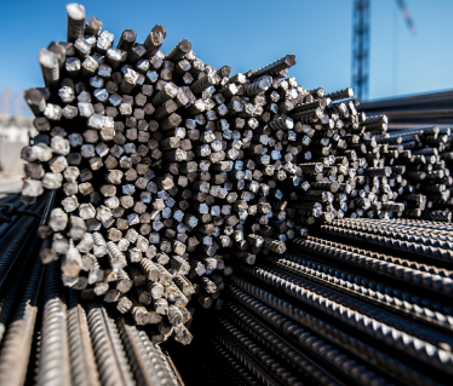
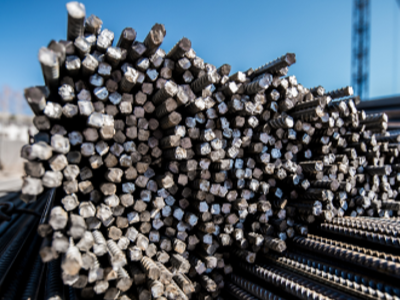
final commit

diff --git a/src/components/dashboard/userInterface.tsx b/src/components/dashboard/userInterface.tsx
@@ -37,16 +37,15 @@ export default function UserInterface() {
       <main className="p-4 space-y-4">
         <div className="grid grid-cols-1 md:grid-cols-3 gap-4">
           {/* Material Image Card */}
-          <Card className="bg-gray-900 border-0 overflow-hidden">
-            <CardContent className="p-0">
+          <Card className="text-card-foreground rounded-xl shadow-sm bg-zinc-900 border-0 p-0 overflow-hidden flex">
+            <div className="relative w-full h-[300px] flex-grow">
               <Image
                 src="/steel.png"
                 alt="Steel rebar materials"
-                width={400}
-                height={300}
-                className="w-full h-full object-cover"
+                fill
+                className="object-cover"
               />
-            </CardContent>
+            </div>
           </Card>
 
           {/* Submissions Card */}

diff --git a/src/components/ui/card.tsx b/src/components/ui/card.tsx
@@ -2,7 +2,8 @@ import * as React from "react"
 
 import { cn } from "@/lib/utils"
 
-function Card({ className, ...props }: React.ComponentProps<"div">) {
+function 
+Card({ className, ...props }: React.ComponentProps<"div">) {
   return (
     <div
       data-slot="card"
